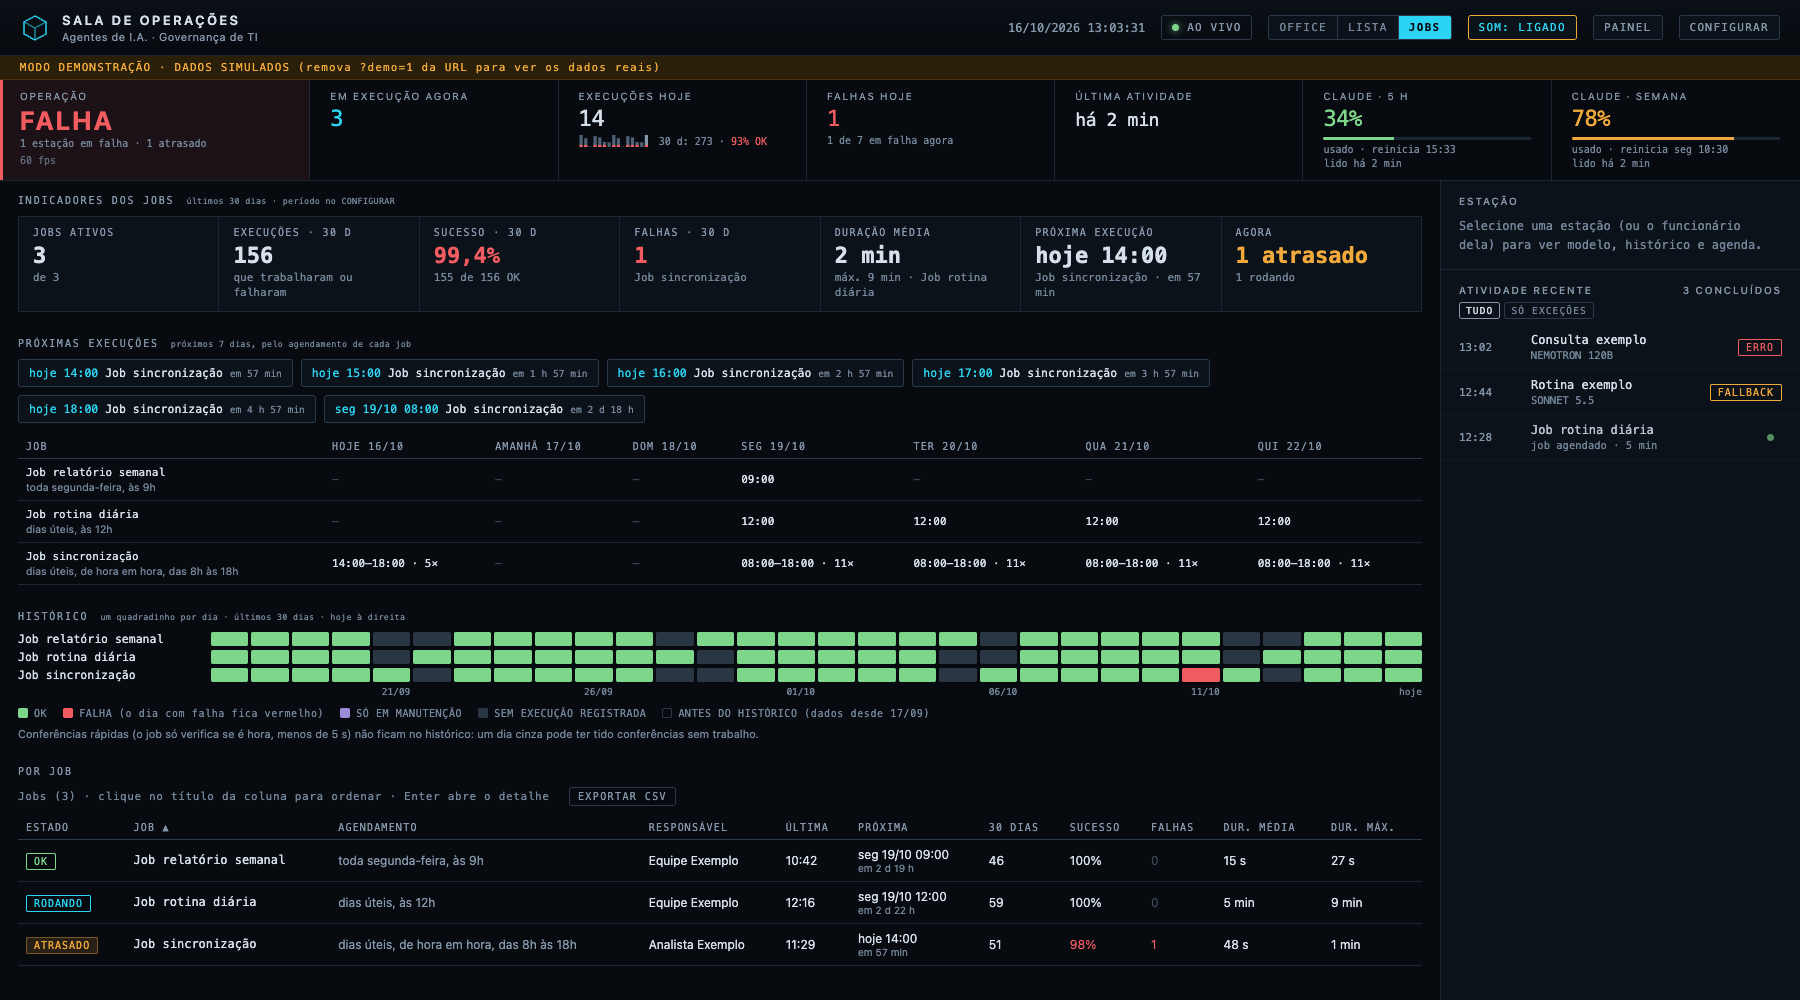
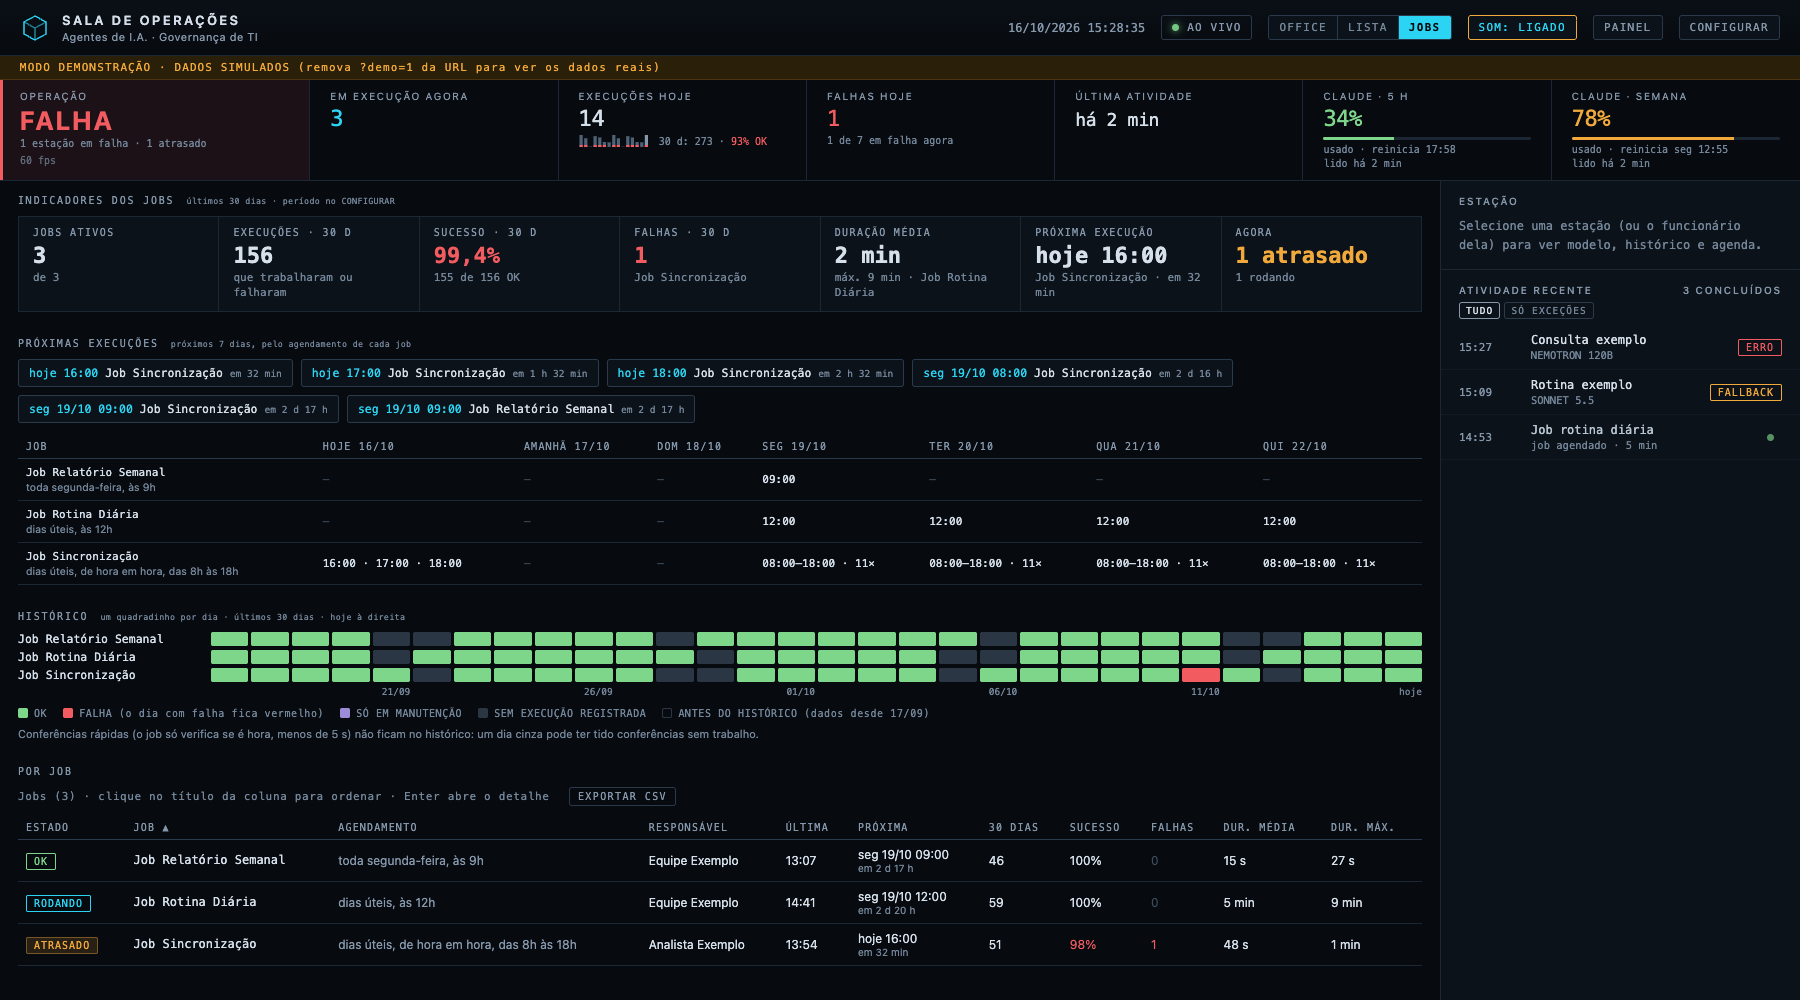
JOBS: nome dos jobs com inicial maiúscula em cada palavra (siglas e conectivos preservados); capturas da tela JOBS refeitas

diff --git a/web/js/diagnostico.js b/web/js/diagnostico.js
@@ -104,6 +104,8 @@ function jobsAutoteste(){
   if(b){b.click();const a1=[...J.querySelectorAll('.jtab td.nm')].map(t=>t.textContent);J.querySelector('.jtab th button[data-k="nome"]').click();const a2=[...J.querySelectorAll('.jtab td.nm')].map(t=>t.textContent);
     const o=[...a1].sort((x,y)=>x.localeCompare(y,LOCALE)).join('|'), oi=[...a1].sort((x,y)=>y.localeCompare(x,LOCALE)).join('|');   // os dois cliques: uma ordem e a oposta
     if(!((a1.join('|')===o&&a2.join('|')===oi)||(a1.join('|')===oi&&a2.join('|')===o)))r.push('JOBS: ordenar pela coluna Job não ordenou')}
+  if(!(typeof CFG!=='undefined'&&CFG.nomes==='tecnicos'))J.querySelectorAll('.jtab td.nm').forEach(t=>{const w=t.textContent.split(' ').filter((x,i)=>!(i&&JMIN.test(x))).find(x=>x&&x.charAt(0)!==x.charAt(0).toLocaleUpperCase(LOCALE));
+    if(w)r.push('JOBS: nome sem inicial maiúscula: '+t.textContent)});
   const csv=csvJobs(STATE).split('\r\n').filter(Boolean);
   if(csv.length!==n+1)r.push('JOBS CSV: '+(csv.length-1)+' linhas para '+n+' jobs');
   JSORT=sort; visaoLigar(antes);
@@ -116,7 +118,7 @@ function jobsAutoteste(){
 function idiomaAutoteste(){
   if(!EN||!STATE||typeof visaoLigar!=='function')return [];
   const dados=new Set(), add=v=>{if(v&&typeof v==='string'&&v.length>1){dados.add(v);dados.add(v.toUpperCase())}};
-  all().forEach(it=>{[label(it.id),it.id,it.name,it.desc,it.responsavel,it.model,it.provider,it.schedule,it.source,it.setor,it.manutencao&&it.manutencao.motivo].forEach(add);(it.skills||[]).forEach(add)});
+  all().forEach(it=>{[label(it.id),typeof jNome==='function'?jNome(it.id):'',it.id,it.name,it.desc,it.responsavel,it.model,it.provider,it.schedule,it.source,it.setor,it.manutencao&&it.manutencao.motivo].forEach(add);(it.skills||[]).forEach(add)});
   ((STATE.layout||{}).zones||[]).forEach(z=>add(z.title)); (STATE.sem_setor||[]).forEach(add);
   const vt=STATE.vault||{}; Object.keys(vt.por_tipo||{}).forEach(add); Object.keys((vt.auditoria||{}).categorias||{}).forEach(add);
   (STATE.feed||[]).forEach(e=>add(e.model));

diff --git a/web/js/jobs.js b/web/js/jobs.js
@@ -23,10 +23,16 @@ function jHorarios(ds){
   const p=ds[1]-ds[0], reg=ds.every((d,i)=>!i||d-ds[i-1]===p);
   return jHora(ds[0])+(reg?'–':' … ')+jHora(ds[ds.length-1])+' · '+ds.length+'×';
 }
+// Nome do job na tela JOBS com a inicial de cada palavra em maiúscula ("Job auditoria vault" -> "Job Auditoria Vault"; 16/10/2026).
+// Siglas e maiúsculas do meio ficam (RH, O365, GitHub); conectivos (de, da, do, e...) ficam minúsculos
+// fora da 1ª palavra. Com os nomes técnicos (CONFIGURAR) mostra o id como está.
+const JMIN=/^(a|o|as|os|e|de|da|do|das|dos|em|na|no|nas|nos|para|por|com)$/i;
+function jNome(id){const n=label(id);if(typeof CFG!=='undefined'&&CFG.nomes==='tecnicos')return n;
+  return n.split(' ').map((w,i)=>i&&JMIN.test(w)?w.toLowerCase():w.charAt(0).toLocaleUpperCase(LOCALE)+w.slice(1)).join(' ')}
 function jobsDados(s){
   return (s.crons||[]).map(c=>{const su=c.sucesso||{}, du=c.duracao||{};
     const prox=(c.proximas||[]).map(([t,m])=>({d:parseTs(t+':00'),m})).filter(x=>x.d&&!isNaN(x.d));
-    return {c,nome:label(c.id),est:estOrd(c),prox,prox0:prox.length?+prox[0].d:Infinity,ult:(c.last_run||'').replace('T',' ').slice(0,19),
+    return {c,nome:jNome(c.id),est:estOrd(c),prox,prox0:prox.length?+prox[0].d:Infinity,ult:(c.last_run||'').replace('T',' ').slice(0,19),
       ag:(EN?c.agenda_en:c.agenda_texto)||c.agenda_texto||c.schedule||'',resp:c.responsavel||'',ex:su.execucoes||0,fa:su.falhas||0,suc:su.pct??-1,
       dm:du.media_s??-1,dx:du.max_s??-1}});
 }
